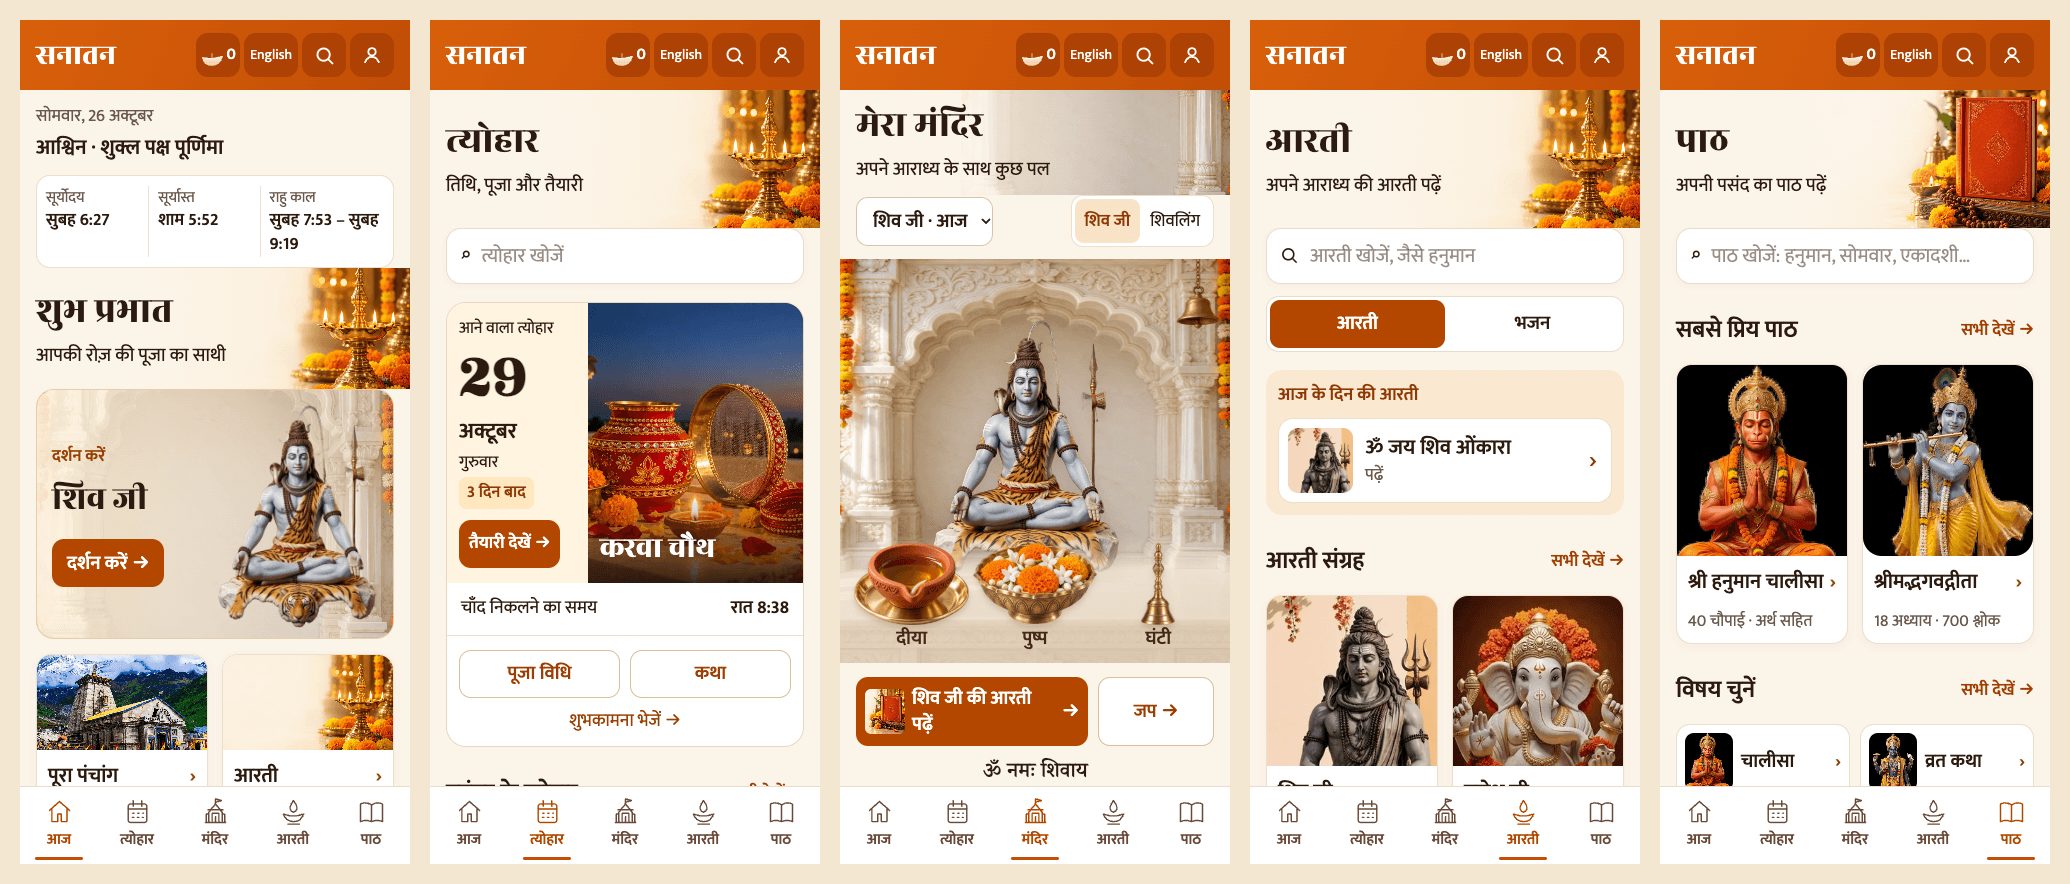
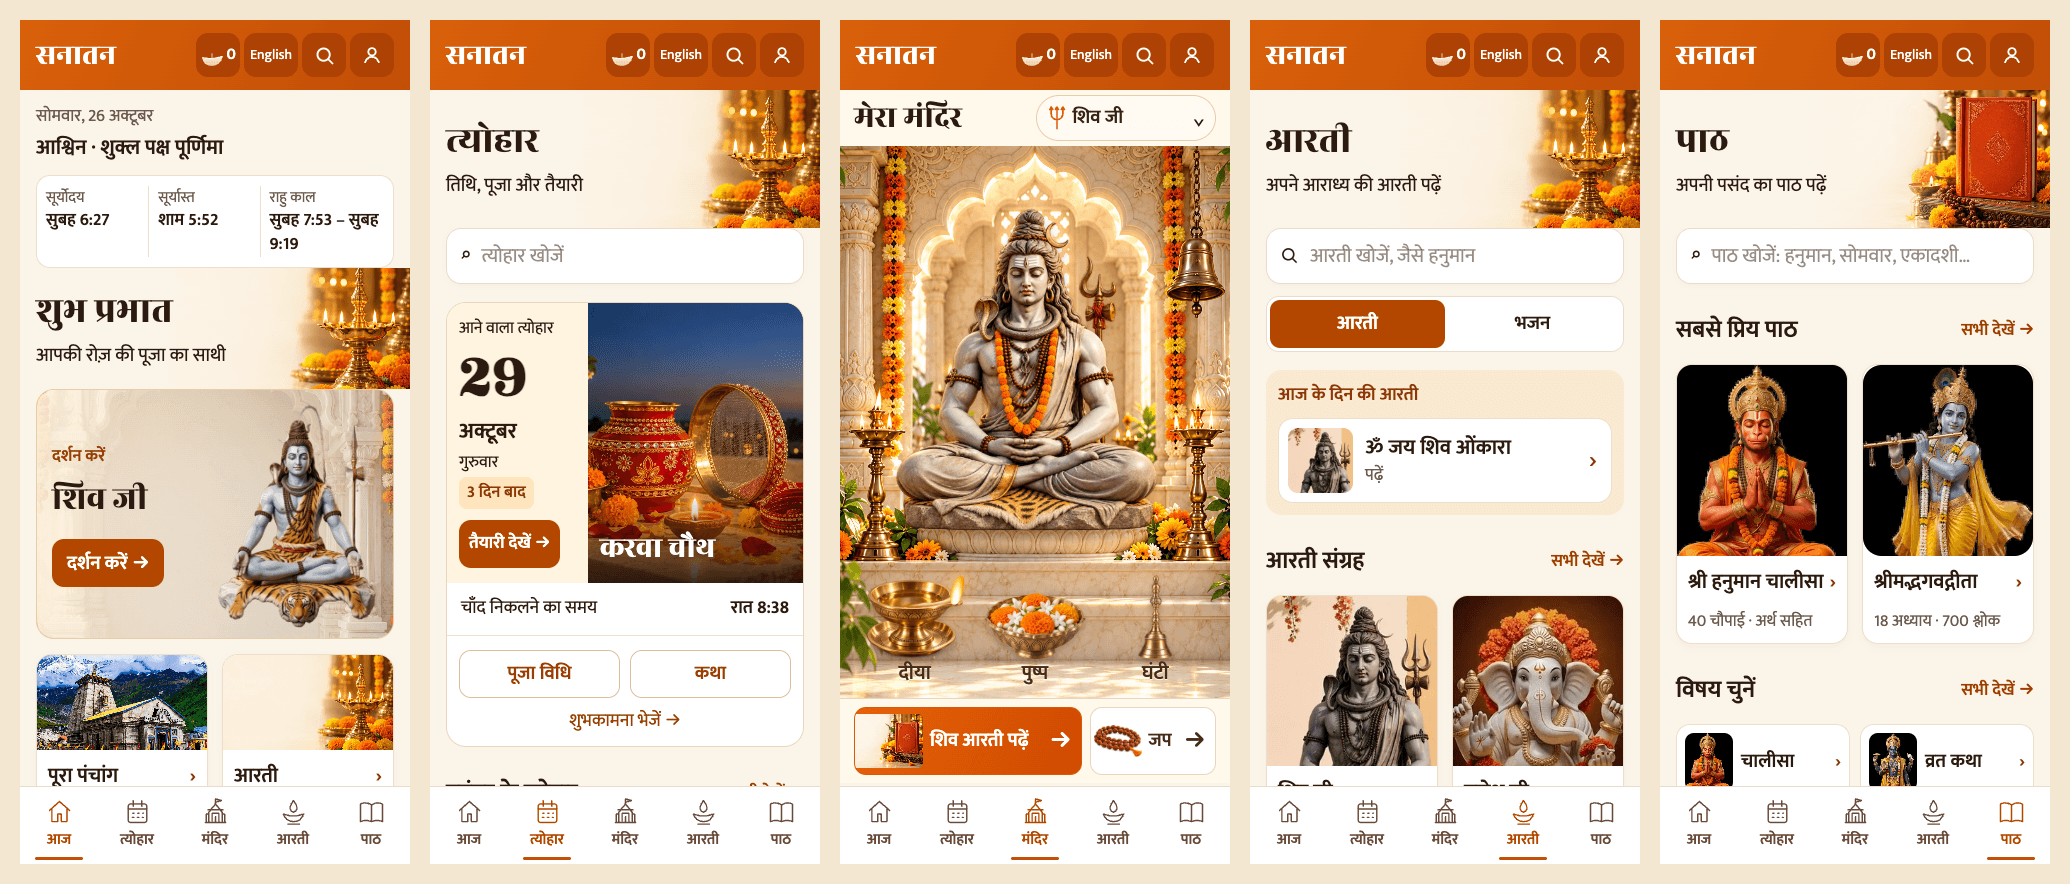
Update final review board and handoff for corrected Mandir

Changed region(s): [[0.4019, 0.0916, 0.6184, 0.8857]]

diff --git a/docs/redesign/HANDOFF.md b/docs/redesign/HANDOFF.md
@@ -25,14 +25,18 @@ Five dependent review branches, beginning at app-source commit eabb21d. PRs shou
 
 New original generated decorative assets: lamp banner, closed unlabelled book banner, Karwa Chauth still life, empty ivory marble shrine, and transparent offering-object photographs. Existing deity identities / colours and original weekday sets remain in use. Actual temple cards use the existing temple photographs and credits, not the fictional shrine.
 
-No devotional content files changed. Existing known text issues in HANDOVER.md are intentionally untouched. No new katha, ritual, history or festival date was invented.
+No devotional text changed. The deity catalogue adds only an optional shrineWeek image field for the corrected Mandir artwork. Existing known text issues in HANDOVER.md are intentionally untouched. No new katha, ritual, history or festival date was invented.
 
 Still missing from the original catalogue: Durga and Khatu weekday sets; seven day-wise Shivling pictures (the existing placeholder remains); individual pictures for Shani, Santoshi, Saraswati and other reader deities that currently show a diya; improved real photos for several temple pages. Gita meanings remain the original chapters 2 and 12 only. The dated festival dataset ends on 24 November 2026; future festivals require independently checked content, not fabricated dates.
 
-The build retains its existing large-main-bundle warning (~1.7 MB). Offline caching now includes WebP and full card photos, so the first complete offline download is ~37 MB. After installation the daily cards and share rendering work without the network. External YouTube playback still requires connectivity and a user tap.
+The build retains its existing large-main-bundle warning (~1.7 MB). Offline caching now includes WebP and full card photos, so the first complete offline download is ~39 MB. After installation the daily cards and share rendering work without the network. External YouTube playback still requires connectivity and a user tap.
 
 Native file sharing depends on browser support. Desktop fallback saves the card, then presents an explicit WhatsApp link and attachment instruction. Actual transmission remains the user's action.
 
 ## Validation
 
 Every stage was checked with Node 22 TypeScript, Vitest and production build. Final suite: 20 tests. Phone checks cover 320 / 390 px, enlarged text, five tabs, readers, saved state, offers, mala and offline production reload. Screenshots and per-stage notes are in pr-1 through pr-5.
+
+## Mandir correction, 27 October
+
+The first implementation diverged from option 5. The Today/Mandir stage now includes the compact title/picker row, a taller sunlit lattice shrine, seated Shiva daily set, integrated marble offerings and photo-backed Aarti/Jap actions. Original deity fields and card photos remain unchanged. See `mandir-correction/comparison.png` and `mandir-correction/artwork-prompts.md`. This correction is included in branches 3, 4 and 5 before any PR publication.
